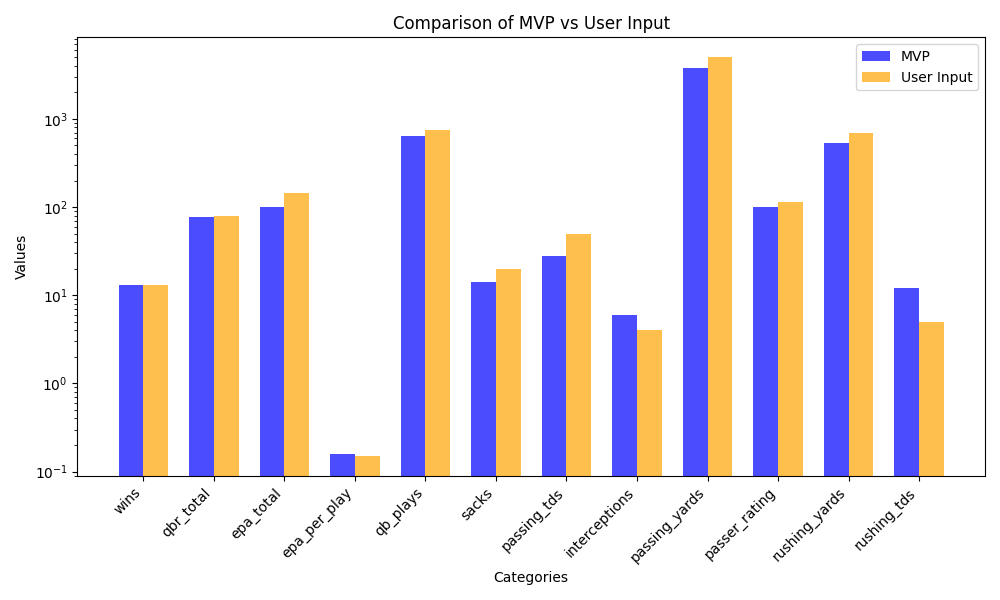
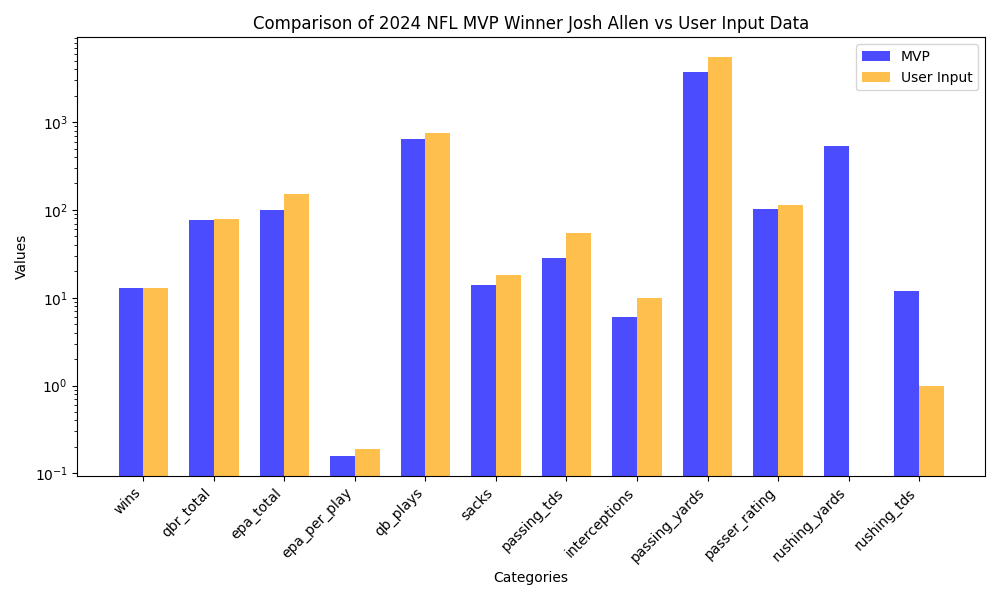
made more aesthetic

diff --git a/PredictorApp/templates/home.html b/PredictorApp/templates/home.html
@@ -26,6 +26,50 @@
             margin: 20px;
             box-shadow: 0 4px 8px rgba(0, 0, 0, 0.2);
         }
+        form {
+            display: flex;
+            flex-direction: column;
+            gap: 15px;
+        }
+        label {
+            font-weight: bold;
+            margin-bottom: 5px;
+            text-align: left;
+        }
+        input[type="number"] {
+            padding: 10px;
+            border: 1px solid #ccc;
+            border-radius: 5px;
+            font-size: 14px;
+            width: 100%;
+            box-sizing: border-box;
+        }
+        button {
+            padding: 10px 20px;
+            background-color: #007bff;
+            color: white;
+            border: none;
+            border-radius: 5px;
+            font-size: 16px;
+            cursor: pointer;
+            transition: background-color 0.3s ease;
+        }
+        button:hover {
+            background-color: #0056b3;
+        }
+        .form-group {
+            display: flex;
+            flex-direction: column;
+            text-align: left;
+        }
+        .form-grid {
+            display: grid;
+            grid-template-columns: 1fr 1fr; 
+            gap: 20px; 
+        }
+        .form-title {
+            margin-bottom: 20px;
+        }
         table {
             border-collapse: collapse;
         }
@@ -38,47 +82,64 @@
     {% load custom_filters %}
     <div>
         <h1>Welcome to the NFL MVP Award Predictor!</h1>
-        <p>As a passionate NFL fan who enjoys analyzing player film and debating MVP contenders each season, I set out to create a tool that mirrors the logic behind MVP predictions—similar to those used by betting algorithms—but powered by user input. The result is a machine learning model that predicts the NFL MVP with 87% accuracy across the past seven seasons, with the only miss being 2021 Tom Brady, who finished second in MVP voting. Users can enter hypothetical quarterback stats, and the model will evaluate whether those numbers would likely secure the MVP title in today’s NFL landscape.</p>
+        <p>As a passionate NFL fan who enjoys analyzing player film and debating MVP contenders each season, I set out to create a tool that mirrors the logic behind MVP predictions—similar to those used by betting algorithms—but powered by user input. The result is a machine learning model that predicts the NFL MVP with 87% accuracy across the past seven seasons, with the only miss being 2021 Tom Brady, who finished second in MVP voting. Users can enter hypothetical quarterback stats, and the model will evaluate whether those numbers would likely secure the MVP title in today’s NFL landscape. 
+            <br>
+            <br>
+        For example, Joe Burrow's stellar 2024 campaign filled up the stat sheets but he severely lacked in the wins column so inputting his data only gives a 12% probability of being an MVP. On the flip side, one of the greatest overall qb seasons of all time, 2013 Peyton Manning, gets an overwhelming 75% probability of being an MVP. For those unfamiliar with NFL advanced stats, feel free to use the displayed values as examples. </p>
         <div class="container">
             <form method="POST">
                 {% csrf_token %}
-                <label for="wins">Wins:</label>
-                <input type="number" id="wins" name="wins" step="1" required><br>
-        
-                <label for="qbr_total">QBR Total:</label>
-                <input type="number" step="0.1" id="qbr_total" name="qbr_total" required><br>
-        
-                <label for="epa_total">EPA Total:</label>
-                <input type="number" step="0.1" id="epa_total" name="epa_total" required><br>
-        
-                <label for="epa_per_play">EPA Per Play:</label>
-                <input type="number" step="0.0001" id="epa_per_play" name="epa_per_play" required><br>
-        
-                <label for="qb_plays">QB Plays:</label>
-                <input type="number" id="qb_plays" name="qb_plays" step="1" required><br>
-        
-                <label for="sacks">Sacks:</label>
-                <input type="number" id="sacks" name="sacks" step="1" required><br>
-        
-                <label for="passing_tds">Passing TDs:</label>
-                <input type="number" id="passing_tds" name="passing_tds" step="1" required><br>
-        
-                <label for="interceptions">Interceptions:</label>
-                <input type="number" id="interceptions" name="interceptions" step="1" required><br>
-        
-                <label for="passing_yards">Passing Yards:</label>
-                <input type="number" id="passing_yards" name="passing_yards" step="1" required><br>
-        
-                <label for="passer_rating">Passer Rating:</label>
-                <input type="number" step="0.1" id="passer_rating" name="passer_rating" required><br>
-        
-                <label for="rushing_yards">Rushing Yards:</label>
-                <input type="number" id="rushing_yards" name="rushing_yards" step="1" required><br>
-        
-                <label for="rushing_tds">Rushing TDs:</label>
-                <input type="number" id="rushing_tds" name="rushing_tds" step="1" required><br>
-        
-                <button type="submit">Predict MVP</button>
+                <div class="form-grid">
+                    <div class="form-group">
+                        <label for="wins">Wins:</label>
+                        <input type="number" id="wins" name="wins" required>
+                    </div>
+                    <div class="form-group">
+                        <label for="passing_yards">Passing Yards:</label>
+                        <input type="number" id="passing_yards" name="passing_yards" required>
+                    </div>
+                    <div class="form-group">
+                        <label for="passing_tds">Passing Touchdowns:</label>
+                        <input type="number" id="passing_tds" name="passing_tds" required>
+                    </div>
+                    <div class="form-group">
+                        <label for="interceptions">Interceptions:</label>
+                        <input type="number" id="interceptions" name="interceptions" required>
+                    </div>
+                    <div class="form-group">
+                        <label for="passer_rating">Passer Rating:</label>
+                        <input type="number" step="0.1" id="passer_rating" name="passer_rating" required>
+                    </div>
+                    <div class="form-group">
+                        <label for="qbr_total">QBR (Quarterback Rating):</label>
+                        <input type="number" step="0.1" id="qbr_total" name="qbr_total" required>
+                    </div>
+                    <div class="form-group">
+                        <label for="epa_total">EPA (Estimated Points Added):</label>
+                        <input type="number" step="0.1" id="epa_total" name="epa_total" required>
+                    </div>
+                    <div class="form-group">
+                        <label for="epa_per_play">EPA Per Play:</label>
+                        <input type="number" step="0.0001" id="epa_per_play" name="epa_per_play" required>
+                    </div>
+                    <div class="form-group">
+                        <label for="qb_plays">QB Plays:</label>
+                        <input type="number" id="qb_plays" name="qb_plays" required>
+                    </div>
+                    <div class="form-group">
+                        <label for="sacks">Sacks:</label>
+                        <input type="number" id="sacks" name="sacks" required>
+                    </div>
+                    <div class="form-group">
+                        <label for="rushing_yards">Rushing Yards:</label>
+                        <input type="number" id="rushing_yards" name="rushing_yards" required>
+                    </div>
+                    <div class="form-group">
+                        <label for="rushing_tds">Rushing Touchdowns:</label>
+                        <input type="number" id="rushing_tds" name="rushing_tds" required>
+                    </div>
+                </div>
+                <button type="submit">Predict if this player could win MVP</button>
             </form>
         
             {% if prediction %}
@@ -86,12 +147,11 @@
             {% endif %}
 
             {% if graph_url %}
-                <h2>Comparison Graph</h2>
                 <img src="{{ graph_url }}" alt="Comparison Graph">
             {% endif %}
         </div>
         <div class="container">
-            <p>Model-predicted MVPs: </p>
+            <p>MVP's over the past 7 years according to the model: </p>
             <table border="1" style="text-align: center;">
                 <thead>
                     <tr>

diff --git a/PredictorApp/views.py b/PredictorApp/views.py
@@ -37,8 +37,11 @@ def home(request):
         }
         input_df = pd.DataFrame([input_data])
         probabilities = model.predict_proba(input_df)
-        prediction = 'Likely MVP' if probabilities[0][1] >= 0.3 else 'Unlikely MVP'
-
+        prediction = (
+            f"The model gives a {probabilities[0][1] * 100:.2f}% probability of being MVP. "
+            f"{'That is high enough and they would likely win MVP' if probabilities[0][1] >= 0.3 else 'That is not high enough and they would likely not win MVP'}"
+        )
+        
         # Create a bar graph
         mvp_data = filtered_data[6]
         categories = list(input_data.keys())
@@ -56,7 +59,7 @@ def home(request):
 
         plt.xlabel('Categories')
         plt.ylabel('Values')
-        plt.title('Comparison of MVP vs User Input')
+        plt.title('Comparison of 2024 NFL MVP Winner Josh Allen vs User Input Data')
         plt.xticks([i + bar_width / 2 for i in x], categories, rotation=45, ha='right')
         plt.legend()
 

diff --git a/README.md b/README.md
@@ -1,7 +1,7 @@
 # NFL Awards Predictor
 As a passionate NFL fan who enjoys analyzing player film and debating MVP contenders each season, I set out to create a tool that mirrors the logic behind MVP predictions—similar to those used by betting algorithms—but powered by user input. The result is a machine learning model that predicts the NFL MVP with 87% accuracy across the past seven seasons, with the only miss being 2021 Tom Brady, who finished second in MVP voting. Users can enter hypothetical quarterback stats, and the model will evaluate whether those numbers would likely secure the MVP title in today’s NFL landscape.
 
-
+For example, Joe Burrow's stellar 2024 campaign filled up the stat sheets but he severely lacked in the wins column so inputting his data only gives a 12% probability of being an MVP. On the flip side, one of the greatest overall qb seasons of all time, 2013 Peyton Manning, gets an overwhelming 75% probability of being an MVP. For those unfamiliar with NFL advanced stats, feel free to use the displayed values as examples.
 
 
 
